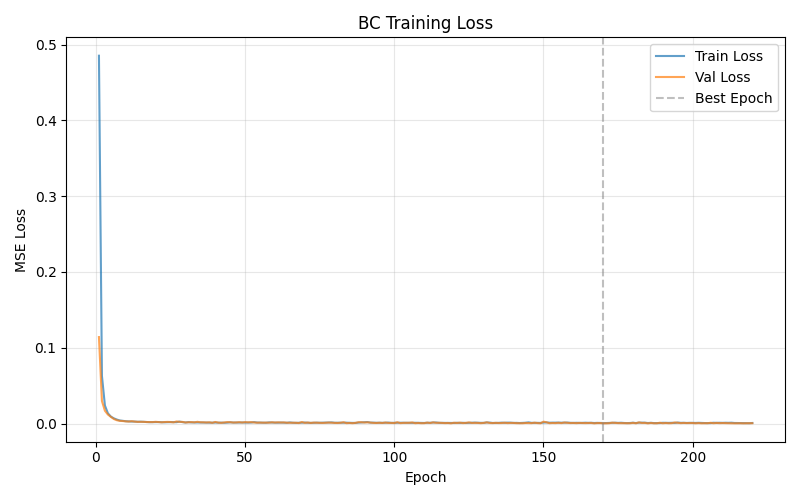
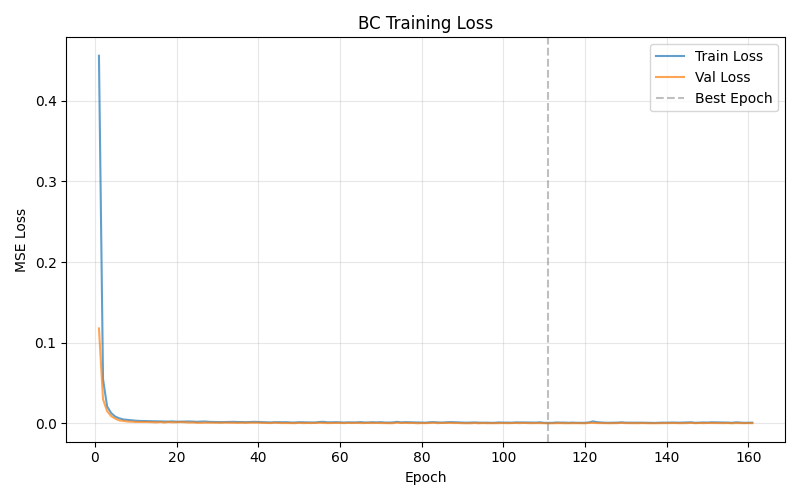
修复泛化测试: block位置计算(去重body_pos)+ viewer同步扰动

diff --git a/scripts/eval_bc.py b/scripts/eval_bc.py
@@ -153,13 +153,15 @@ def main():
     displacements = []
     for ep in range(args.episodes):
         # 泛化测试: 扰动方块初始位置
+        # 方块世界 X = body_pos_X(0.4) + qpos_X，所以要偏移 ±2cm 需设 qpos_X = noise
         if args.generalize:
-            noise = np.random.uniform(-0.02, 0.02, size=2)  # xy 扰动
-            # 通过修改 block 的 body 位置来扰动（需要在 reset 前完成）
-            # 简单做法: 直接修改 data.qpos 中 block 的 xy 初值
-            data.qpos[9] = 0.4 + noise[0]
-            data.qpos[10] = 0.0 + noise[1]
-            print(f"  Episode {ep+1}: block_xy=({data.qpos[9]:.3f}, {data.qpos[10]:.3f})")
+            noise = np.random.uniform(-0.02, 0.02, size=2)
+            data.qpos[9] = noise[0]   # block X 偏移
+            data.qpos[10] = noise[1]  # block Y 偏移
+            # 计算实际世界位置用于打印
+            mujoco.mj_forward(model, data)
+            block_world_xy = data.xpos[block_id][:2]
+            print(f"  Episode {ep+1}: block_world_xy=({block_world_xy[0]:.3f}, {block_world_xy[1]:.3f})")
 
         if args.record and ep == 0:
             disp = run_rollout_with_render(
@@ -184,11 +186,17 @@ def main():
 
     # ---- Viewer（可选） ----
     if not args.no_viewer and not args.record:
-        print(f"\n[viewer] 启动交互式 viewer 查看 rollout...")
+        mode_str = "泛化测试" if args.generalize else "原位置"
+        print(f"\n[viewer] 启动交互式 viewer ({mode_str})...")
         mujoco.mj_resetData(model, data)
         home_q = np.array([0, 0, 0, -1.57079, 0, 1.57079, -0.7853, 0.04, 0.04])
         data.qpos[:9] = home_q
         data.ctrl[:] = 0
+        # 泛化测试: 在 viewer 中也扰动方块位置
+        if args.generalize:
+            noise = np.random.uniform(-0.02, 0.02, size=2)
+            data.qpos[9] = noise[0]
+            data.qpos[10] = noise[1]
         mujoco.mj_forward(model, data)
 
         with mujoco.viewer.launch_passive(model, data) as viewer:
